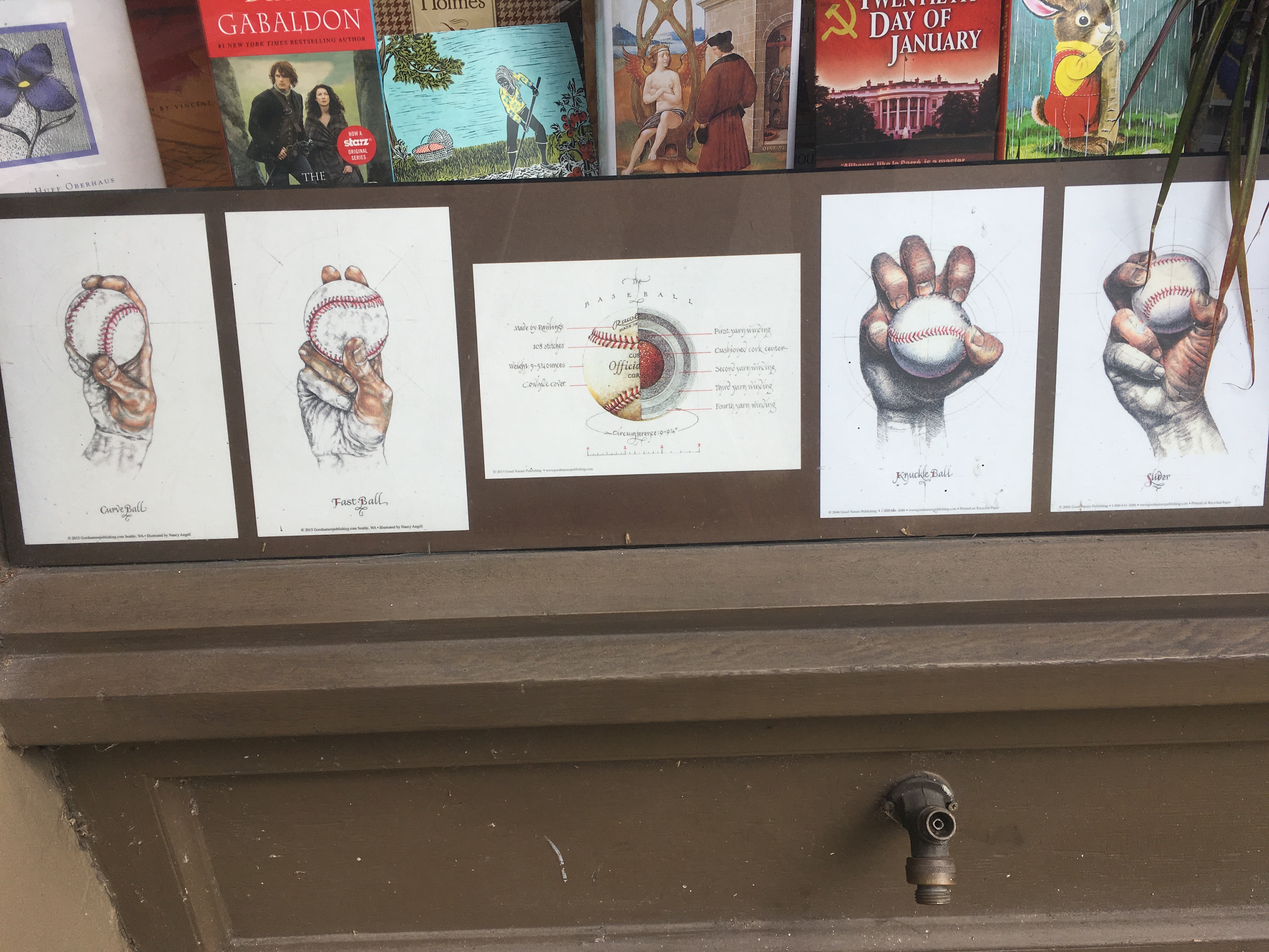
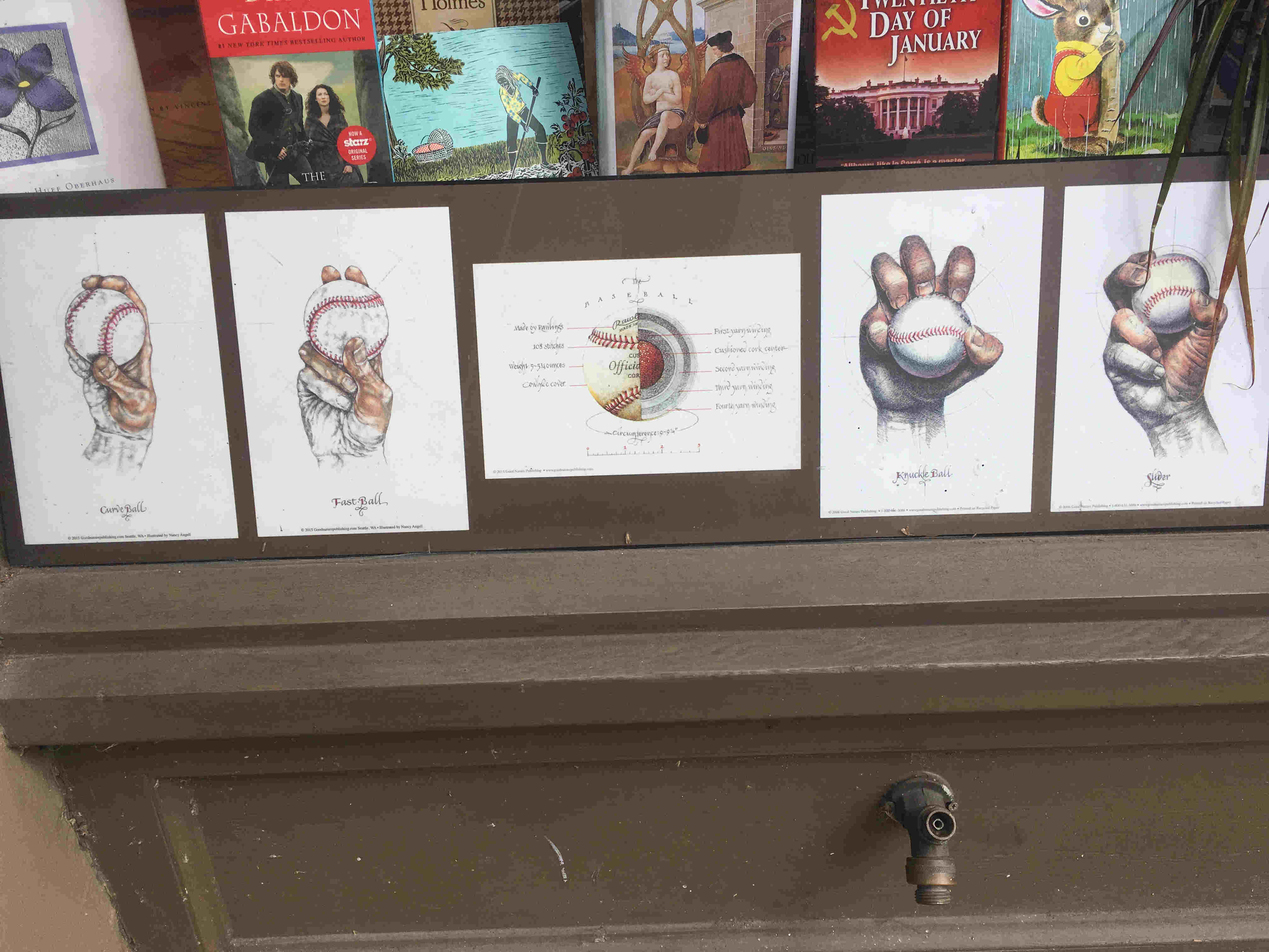
Optimizing images for web upload speed

diff --git a/src/Portfolio.js b/src/Portfolio.js
@@ -1,8 +1,8 @@
 import React, { Component } from 'react';
 import './Portfolio.css';
-import relish from './images/portfolio_images/relish_logo.png';
-import langly from './images/portfolio_images/langly.png';
-import subway from './images/portfolio_images/blue.png';
+import subway from './images/portfolio_images/blue.jpg';
+import relish from './images/portfolio_images/relish_logo.jpg';
+import langly from './images/portfolio_images/langly.jpg';
 import api from './images/portfolio_images/tech/api.png';
 import d3 from './images/portfolio_images/tech/d3.png';
 import firebase from './images/portfolio_images/tech/firebase.png';

diff --git a/src/Blog.js b/src/Blog.js
@@ -1,6 +1,6 @@
 import React, { Component } from 'react';
 import './Blog.css';
-import cincy from './images/blog_images/cincy_big.png';
+import cincy from './images/blog_images/cincy_big.jpg';
 import outro from './images/blog_images/outro.jpeg';
 import blog_posts from './blogs.json';
 import {
